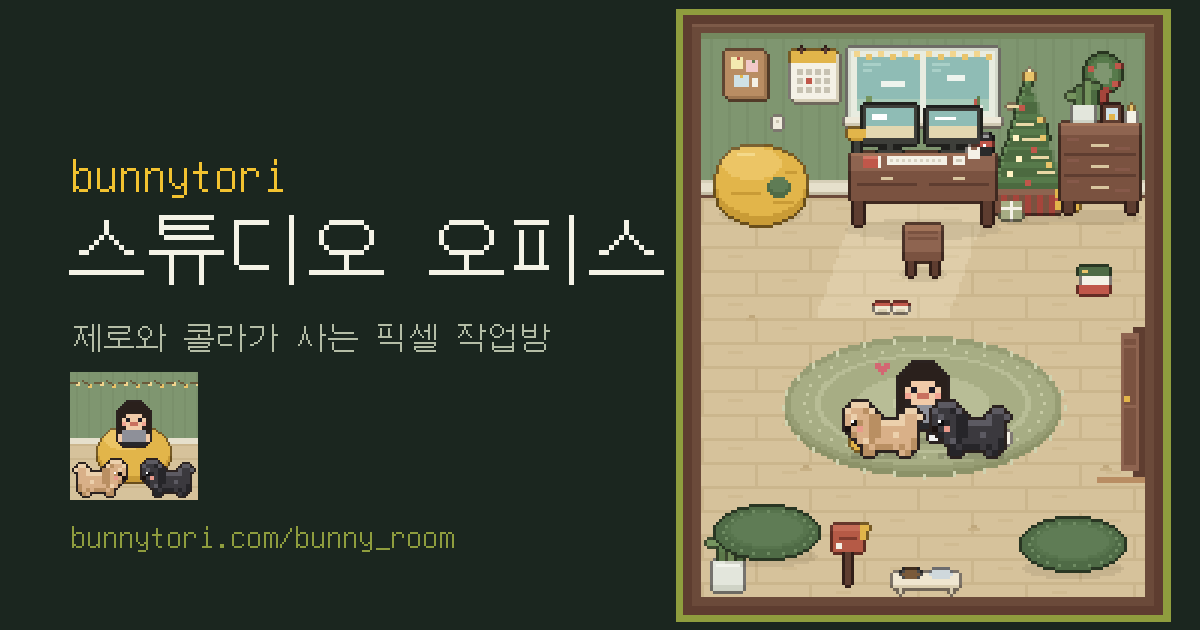
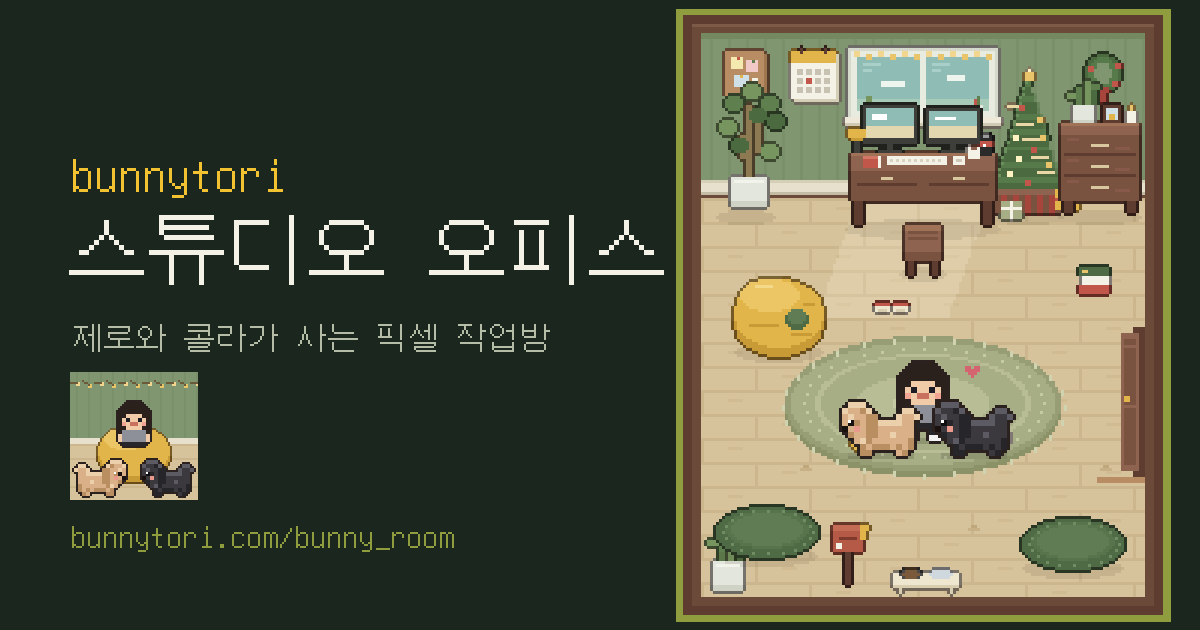
Room: beanbag moved to the floor centre-left, tall plant in the left corner; refresh preview image
Claude-Session: https://claude.ai/code/session_017jBMJu5sbdsGT4cjNbDcNS

diff --git a/bunny_room/index.html b/bunny_room/index.html
@@ -268,7 +268,7 @@ ACTORS.forEach((a,i)=>Object.assign(a,{scene:'work',x:70+i*18,y:140,zone:'mid',p
 
 const SPOT={
   desk:{x:80,y:80,pose:'sitback',z:'top'},
-  beanbag:{x:24,y:62,pose:'sit',z:'top'},
+  beanbag:{x:30,y:107,pose:'sit',z:'mid'},
   window:{x:100,y:96,pose:'standback',z:'mid'},
   rug:{x:80,y:132,pose:'stretch',z:'mid'},
   tree:{x:24,y:90,pose:'standback',z:'mid'},
@@ -486,7 +486,9 @@ const FURN=[
     R(30,58,8,7,P.yel);R(33,58,2,7,'#c0574a');R(30,61,8,1,'#c0574a');R(5+28,56,2,2,'#c0574a');
     R(12,62,7,6,'#a7ad84');R(15,62,1,6,'#f4f1e6');R(12,64,7,1,'#f4f1e6');
     ctx.restore();}},
-  {y:52,d(){ctx.save();ctx.translate(-18,0);E(44,58,15,11,P.yelD);E(44,55,15,11,P.yel);E(41,49,10,5,P.yelL);R(36,46,6,1,'#f4d98a');R(34,59,10,1,P.yelD);R(48,62,7,1,P.yelD);R(52,52,4,1,P.yelD);E(50,57,4,3,P.cush);E(50,56,3,2,P.cushL);ctx.restore();}}, // big beanbag
+  {y:98,d(){ctx.save();ctx.translate(-12,44);E(44,58,15,11,P.yelD);E(44,55,15,11,P.yel);E(41,49,10,5,P.yelL);R(36,46,6,1,'#f4d98a');R(34,59,10,1,P.yelD);R(48,62,7,1,P.yelD);R(52,52,4,1,P.yelD);E(50,57,4,3,P.cush);E(50,56,3,2,P.cushL);ctx.restore();}}, // big beanbag
+  {y:64,d(){ctx.save();ctx.translate(-94,0);R(110,54,12,10,P.pot);R(110,62,12,2,P.potD);R(111,55,10,1,'#f2f4ec');R(115,30,2,24,'#8e7a52');R(113,40,2,8,'#8e7a52');R(118,36,2,10,'#8e7a52');
+    [[108,28,P.leaf],[114,24,P.leafL],[120,28,P.leaf],[106,36,P.leafL],[122,34,P.leafD],[110,42,P.leafD],[120,44,P.leafL],[116,32,P.leafD]].forEach(([x,y,c])=>{R(x,y,6,3,c);R(x+1,y-1,4,1,c);R(x+1,y+3,4,1,c);});ctx.restore();}}, // tall plant (left corner)
   {y:64,d(){ // desk with monitors, lamp, mug, notebook
     const sc=isNight()?'#a9dcd6':P.glass;
     R(60,30,18,13,'#3e3f3a');R(61,31,16,10,sc);R(61,37,16,4,'#e3d7b0');R(63,33,5,2,'#ffffff');R(68,43,2,3,'#3e3f3a');R(65,45,8,1,'#3e3f3a');
@@ -512,7 +514,7 @@ const FURN=[
   {y:190,d(){R(50,170,10,9,'#b55a46');R(50,170,10,2,'#c46b56');R(52,174,6,1,'#7d3a2d');R(54,179,2,11,P.woodD);R(59,170,2,5,P.yel);R(59,170,3,2,P.yel);R(51,176,2,2,'#f4f1e6');}}, // mailbox with flag
 ];
 const SHADOWS=[];
-function softShadows(){ctx.fillStyle=P.shadow;[[26,66,14,3],[80,71,26,3],[80,86,8,2],[139,67,14,2],[115,67,12,2],[28,180,17,3],[130,184,17,3]].forEach(([x,y,rx,ry])=>{for(let k=-ry;k<=ry;k++){const w=Math.round(rx*Math.sqrt(1-(k/(ry+.5))**2));ctx.fillRect(x-w,y+k,w*2,1);}});}
+function softShadows(){ctx.fillStyle=P.shadow;[[32,112,15,3],[21,67,10,2],[80,71,26,3],[80,86,8,2],[139,67,14,2],[115,67,12,2],[28,180,17,3],[130,184,17,3]].forEach(([x,y,rx,ry])=>{for(let k=-ry;k<=ry;k++){const w=Math.round(rx*Math.sqrt(1-(k/(ry+.5))**2));ctx.fillRect(x-w,y+k,w*2,1);}});}
 /* overlay tags */
 ACTORS.forEach(a=>{const d=document.createElement('div');d.className='tag'+(a.kind==='dog'?' dog':'');d.innerHTML='<div class="bubble"></div><div class="name"></div>';d.querySelector('.name').textContent=a.name;ov.appendChild(d);a.el=d;a.bEl=d.querySelector('.bubble');});
 
@@ -561,7 +563,7 @@ cv.addEventListener('click',e=>{
   if(x>=47&&x<=63&&y>=166&&y<=192){openMail();return;}
   if(Math.abs(byId.me.x-x)<11&&y>byId.me.y-26&&y<byId.me.y+3){act('pat');return;}
   if(x>=58&&x<=100&&y>=28&&y<=47){act('angry');return;}
-  if(x>=8&&x<=42&&y>=40&&y<=70){act('rest');return;}
+  if(x>=14&&x<=50&&y>=86&&y<=116){act('rest');return;}
   if(x>=33&&x<=54&&y>=8&&y<=30){openCal();return;}
   const hit=ACTORS.find(a=>a.scene==='work'&&Math.abs(a.x-x)<12&&y>a.y-26&&y<a.y+4);
   if(hit){poke(hit);return;}

diff --git a/index.html b/index.html
@@ -268,7 +268,7 @@ ACTORS.forEach((a,i)=>Object.assign(a,{scene:'work',x:70+i*18,y:140,zone:'mid',p
 
 const SPOT={
   desk:{x:80,y:80,pose:'sitback',z:'top'},
-  beanbag:{x:24,y:62,pose:'sit',z:'top'},
+  beanbag:{x:30,y:107,pose:'sit',z:'mid'},
   window:{x:100,y:96,pose:'standback',z:'mid'},
   rug:{x:80,y:132,pose:'stretch',z:'mid'},
   tree:{x:24,y:90,pose:'standback',z:'mid'},
@@ -486,7 +486,9 @@ const FURN=[
     R(30,58,8,7,P.yel);R(33,58,2,7,'#c0574a');R(30,61,8,1,'#c0574a');R(5+28,56,2,2,'#c0574a');
     R(12,62,7,6,'#a7ad84');R(15,62,1,6,'#f4f1e6');R(12,64,7,1,'#f4f1e6');
     ctx.restore();}},
-  {y:52,d(){ctx.save();ctx.translate(-18,0);E(44,58,15,11,P.yelD);E(44,55,15,11,P.yel);E(41,49,10,5,P.yelL);R(36,46,6,1,'#f4d98a');R(34,59,10,1,P.yelD);R(48,62,7,1,P.yelD);R(52,52,4,1,P.yelD);E(50,57,4,3,P.cush);E(50,56,3,2,P.cushL);ctx.restore();}}, // big beanbag
+  {y:98,d(){ctx.save();ctx.translate(-12,44);E(44,58,15,11,P.yelD);E(44,55,15,11,P.yel);E(41,49,10,5,P.yelL);R(36,46,6,1,'#f4d98a');R(34,59,10,1,P.yelD);R(48,62,7,1,P.yelD);R(52,52,4,1,P.yelD);E(50,57,4,3,P.cush);E(50,56,3,2,P.cushL);ctx.restore();}}, // big beanbag
+  {y:64,d(){ctx.save();ctx.translate(-94,0);R(110,54,12,10,P.pot);R(110,62,12,2,P.potD);R(111,55,10,1,'#f2f4ec');R(115,30,2,24,'#8e7a52');R(113,40,2,8,'#8e7a52');R(118,36,2,10,'#8e7a52');
+    [[108,28,P.leaf],[114,24,P.leafL],[120,28,P.leaf],[106,36,P.leafL],[122,34,P.leafD],[110,42,P.leafD],[120,44,P.leafL],[116,32,P.leafD]].forEach(([x,y,c])=>{R(x,y,6,3,c);R(x+1,y-1,4,1,c);R(x+1,y+3,4,1,c);});ctx.restore();}}, // tall plant (left corner)
   {y:64,d(){ // desk with monitors, lamp, mug, notebook
     const sc=isNight()?'#a9dcd6':P.glass;
     R(60,30,18,13,'#3e3f3a');R(61,31,16,10,sc);R(61,37,16,4,'#e3d7b0');R(63,33,5,2,'#ffffff');R(68,43,2,3,'#3e3f3a');R(65,45,8,1,'#3e3f3a');
@@ -512,7 +514,7 @@ const FURN=[
   {y:190,d(){R(50,170,10,9,'#b55a46');R(50,170,10,2,'#c46b56');R(52,174,6,1,'#7d3a2d');R(54,179,2,11,P.woodD);R(59,170,2,5,P.yel);R(59,170,3,2,P.yel);R(51,176,2,2,'#f4f1e6');}}, // mailbox with flag
 ];
 const SHADOWS=[];
-function softShadows(){ctx.fillStyle=P.shadow;[[26,66,14,3],[80,71,26,3],[80,86,8,2],[139,67,14,2],[115,67,12,2],[28,180,17,3],[130,184,17,3]].forEach(([x,y,rx,ry])=>{for(let k=-ry;k<=ry;k++){const w=Math.round(rx*Math.sqrt(1-(k/(ry+.5))**2));ctx.fillRect(x-w,y+k,w*2,1);}});}
+function softShadows(){ctx.fillStyle=P.shadow;[[32,112,15,3],[21,67,10,2],[80,71,26,3],[80,86,8,2],[139,67,14,2],[115,67,12,2],[28,180,17,3],[130,184,17,3]].forEach(([x,y,rx,ry])=>{for(let k=-ry;k<=ry;k++){const w=Math.round(rx*Math.sqrt(1-(k/(ry+.5))**2));ctx.fillRect(x-w,y+k,w*2,1);}});}
 /* overlay tags */
 ACTORS.forEach(a=>{const d=document.createElement('div');d.className='tag'+(a.kind==='dog'?' dog':'');d.innerHTML='<div class="bubble"></div><div class="name"></div>';d.querySelector('.name').textContent=a.name;ov.appendChild(d);a.el=d;a.bEl=d.querySelector('.bubble');});
 
@@ -561,7 +563,7 @@ cv.addEventListener('click',e=>{
   if(x>=47&&x<=63&&y>=166&&y<=192){openMail();return;}
   if(Math.abs(byId.me.x-x)<11&&y>byId.me.y-26&&y<byId.me.y+3){act('pat');return;}
   if(x>=58&&x<=100&&y>=28&&y<=47){act('angry');return;}
-  if(x>=8&&x<=42&&y>=40&&y<=70){act('rest');return;}
+  if(x>=14&&x<=50&&y>=86&&y<=116){act('rest');return;}
   if(x>=33&&x<=54&&y>=8&&y<=30){openCal();return;}
   const hit=ACTORS.find(a=>a.scene==='work'&&Math.abs(a.x-x)<12&&y>a.y-26&&y<a.y+4);
   if(hit){poke(hit);return;}
